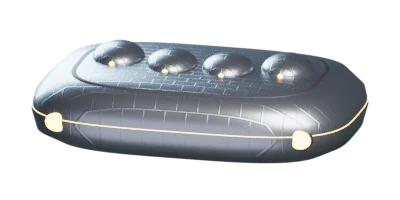
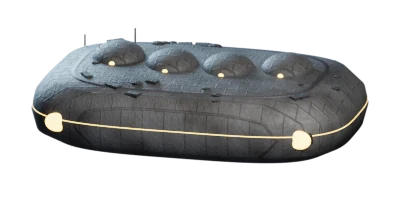
Air war: Stingray Missiles selectable; rougher, more detailed ship pictures

Changed region(s): [[0.06, 0.15, 0.93, 0.84], [0.81, 0.36, 0.84, 0.39], [0.57, 0.24, 0.6, 0.27]]

diff --git a/src/model/__tests__/airwar.spec.ts b/src/model/__tests__/airwar.spec.ts
@@ -5,6 +5,7 @@ import { parseSave } from '@/save/parse'
 import { readCampaign } from '@/save/campaign'
 import {
   AIR_FOUNDRY,
+  CRAFT_WEAPONS,
   INTERCEPTOR,
   categoryFor,
   craftStats,
@@ -17,6 +18,7 @@ import {
   sequenceOdds,
   toHitFor,
   ufoStats,
+  weaponStats,
   type AirSetting,
   type Engagement,
   type Shot,
@@ -59,6 +61,18 @@ describe('ships and weapons from the INI', () => {
       ['Stingray Missiles', 65], // Wingtip Sparrowhawks
     ])
     expect(craftStats(INTERCEPTOR, 1, set({ foundry: all })).weapons[0]!.damage).toBe(230) // Coilguns
+  })
+
+  it('offers every weapon the hangar can mount, Stingray included (item 116)', () => {
+    expect(CRAFT_WEAPONS.map((w) => weaponStats(w, set()).name)).toEqual([
+      'Phoenix Cannon',
+      'Stingray Missiles',
+      'Avalanche Missiles',
+      'Laser Cannon',
+      'Plasma Cannon',
+      'EMP Cannon',
+      'Fusion Lance',
+    ])
   })
 
   it('grows UFOs with alien research', () => {

diff --git a/scripts/ufo_art.py b/scripts/ufo_art.py
@@ -18,6 +18,7 @@ fight). Cycles on the CPU, a few seconds each.
 """
 import math
 import os
+import random
 import sys
 
 import bpy
@@ -51,12 +52,12 @@ def reset():
     sky.sky_type = 'HOSEK_WILKIE'
     sky.sun_direction = (0.4, -0.6, 0.7)
     world.node_tree.links.new(sky.outputs['Color'], nodes['Background'].inputs['Color'])
-    nodes['Background'].inputs['Strength'].default_value = 0.35
+    nodes['Background'].inputs['Strength'].default_value = 0.2
     sc.world = world
     for name, loc, energy, size, color in (
-        ('key', (3, -4, 4), 900, 4, (1.0, 0.96, 0.9)),
-        ('rim', (-4, 4, 2), 800, 4, (0.55, 0.8, 1.0)),
-        ('fill', (-1, -5, -1.5), 140, 6, (0.8, 0.85, 1.0)),
+        ('key', (3, -4, 4), 700, 3, (1.0, 0.94, 0.86)),
+        ('rim', (-4, 4, 2), 900, 3, (0.55, 0.8, 1.0)),
+        ('fill', (-1, -5, -1.5), 60, 6, (0.8, 0.85, 1.0)),
     ):
         light = bpy.data.lights.new(name, 'AREA')
         light.energy, light.size, light.color = energy, size, color
@@ -69,18 +70,19 @@ def reset():
 
 SPECS = {
     # Hulls carry a panel grid (a brick texture as bump), Enemy Unknown's look.
-    'hull': dict(color=(0.30, 0.32, 0.36), metal=0.9, rough=0.32, panels=3),
-    'hull_light': dict(color=(0.55, 0.57, 0.61), metal=0.9, rough=0.28, panels=3),
-    'hull_dark': dict(color=(0.10, 0.10, 0.13), metal=0.85, rough=0.38, panels=3),
-    'ethereal': dict(color=(0.20, 0.12, 0.30), metal=0.9, rough=0.2, panels=3),
-    'xcom': dict(color=(0.62, 0.65, 0.68), metal=0.7, rough=0.3, panels=0),
-    'xcom_dark': dict(color=(0.16, 0.18, 0.2), metal=0.6, rough=0.4, panels=0),
+    # Worn: uneven plates, grime, scuffed roughness; Enemy Unknown is not polished.
+    'hull': dict(color=(0.12, 0.125, 0.135), metal=0.6, rough=0.6, panels=3, grime=0.85),
+    'hull_light': dict(color=(0.2, 0.205, 0.21), metal=0.6, rough=0.56, panels=3, grime=0.8),
+    'hull_dark': dict(color=(0.05, 0.05, 0.055), metal=0.55, rough=0.64, panels=3, grime=0.7),
+    'ethereal': dict(color=(0.11, 0.06, 0.16), metal=0.6, rough=0.45, panels=3, grime=0.5),
+    'xcom': dict(color=(0.3, 0.31, 0.32), metal=0.45, rough=0.52, panels=9, grime=0.5),
+    'xcom_dark': dict(color=(0.08, 0.085, 0.09), metal=0.4, rough=0.6, panels=0, grime=0.4),
     'panel': dict(color=(0.04, 0.04, 0.05), metal=0.4, rough=0.6),
     'glass': dict(color=(0.03, 0.06, 0.08), metal=0.2, rough=0.03, emit=(0.25, 0.85, 1.0), strength=0.6),
-    'cyan': dict(color=(0.2, 0.8, 1.0), metal=0, rough=0.4, emit=(0.25, 0.85, 1.0), strength=9),
-    'violet': dict(color=(0.7, 0.3, 1.0), metal=0, rough=0.4, emit=(0.72, 0.35, 1.0), strength=9),
-    'amber': dict(color=(1.0, 0.6, 0.2), metal=0, rough=0.4, emit=(1.0, 0.55, 0.15), strength=9),
-    'red': dict(color=(1.0, 0.25, 0.15), metal=0, rough=0.4, emit=(1.0, 0.22, 0.1), strength=9),
+    'cyan': dict(color=(0.2, 0.8, 1.0), metal=0, rough=0.4, emit=(0.25, 0.85, 1.0), strength=6),
+    'violet': dict(color=(0.7, 0.3, 1.0), metal=0, rough=0.4, emit=(0.72, 0.35, 1.0), strength=6),
+    'amber': dict(color=(1.0, 0.6, 0.2), metal=0, rough=0.4, emit=(1.0, 0.55, 0.15), strength=6),
+    'red': dict(color=(1.0, 0.25, 0.15), metal=0, rough=0.4, emit=(1.0, 0.22, 0.1), strength=6),
     'green': dict(color=(0.4, 1.0, 0.5), metal=0, rough=0.4, emit=(0.4, 1.0, 0.5), strength=8),
 }
 MATS = {}
@@ -100,19 +102,76 @@ def mat(name):
     if 'emit' in spec:
         b.inputs['Emission Color'].default_value = (*spec['emit'], 1)
         b.inputs['Emission Strength'].default_value = spec['strength']
-    if spec.get('panels'):
-        coord = nt.nodes.new('ShaderNodeTexCoord')
-        brick = nt.nodes.new('ShaderNodeTexBrick')
-        brick.inputs['Scale'].default_value = spec['panels']
-        brick.inputs['Mortar Size'].default_value = 0.008
-        brick.inputs['Color1'].default_value = (1, 1, 1, 1)
-        brick.inputs['Color2'].default_value = (0.85, 0.85, 0.85, 1)
-        brick.inputs['Mortar'].default_value = (0, 0, 0, 1)
-        bump = nt.nodes.new('ShaderNodeBump')
-        bump.inputs['Strength'].default_value = 0.15
-        nt.links.new(coord.outputs['Object'], brick.inputs['Vector'])
-        nt.links.new(brick.outputs['Fac'], bump.inputs['Height'])
-        nt.links.new(bump.outputs['Normal'], b.inputs['Normal'])
+    if spec.get('panels') or spec.get('grime'):
+        coord = nt.nodes.new('ShaderNodeTexCoord').outputs['Object']
+        normal = None
+        if spec.get('panels'):
+            # Plates: a brick grid for seams and tone, a second, skewed one so
+            # the plating is uneven.
+            for scale, strength, skew in ((spec['panels'], 0.3, 0.0), (spec['panels'] * 2.3, 0.12, 0.6)):
+                mapping = nt.nodes.new('ShaderNodeMapping')
+                mapping.inputs['Rotation'].default_value = (skew, skew * 0.7, skew * 1.3)
+                nt.links.new(coord, mapping.inputs['Vector'])
+                brick = nt.nodes.new('ShaderNodeTexBrick')
+                brick.inputs['Scale'].default_value = scale
+                brick.inputs['Mortar Size'].default_value = 0.01
+                brick.inputs['Color1'].default_value = (1, 1, 1, 1)
+                brick.inputs['Color2'].default_value = (0.7, 0.7, 0.7, 1)
+                brick.inputs['Mortar'].default_value = (0, 0, 0, 1)
+                nt.links.new(mapping.outputs['Vector'], brick.inputs['Vector'])
+                bump = nt.nodes.new('ShaderNodeBump')
+                bump.inputs['Strength'].default_value = strength
+                nt.links.new(brick.outputs['Fac'], bump.inputs['Height'])
+                if normal:
+                    nt.links.new(normal, bump.inputs['Normal'])
+                normal = bump.outputs['Normal']
+                if strength > 0.2:
+                    tone = brick.outputs['Color']
+        # Grime: large blotches darken the base colour; fine noise scuffs
+        # the surface and its roughness.
+        dirt = nt.nodes.new('ShaderNodeTexNoise')
+        dirt.inputs['Scale'].default_value = 3.5
+        dirt.inputs['Detail'].default_value = 8
+        nt.links.new(coord, dirt.inputs['Vector'])
+        ramp = nt.nodes.new('ShaderNodeValToRGB')
+        ramp.color_ramp.elements[0].position, ramp.color_ramp.elements[1].position = 0.35, 0.7
+        nt.links.new(dirt.outputs['Fac'], ramp.inputs['Fac'])
+        base = nt.nodes.new('ShaderNodeMix')
+        base.data_type = 'RGBA'
+        base.inputs['Factor'].default_value = spec.get('grime', 0.4)
+        c = spec['color']
+        base.inputs['A'].default_value = (*c, 1)
+        base.inputs['B'].default_value = (c[0] * 0.35, c[1] * 0.33, c[2] * 0.3, 1)
+        mixf = nt.nodes.new('ShaderNodeMath')
+        mixf.operation = 'MULTIPLY'
+        mixf.inputs[1].default_value = spec.get('grime', 0.4)
+        nt.links.new(ramp.outputs['Color'], mixf.inputs[0])
+        nt.links.new(mixf.outputs['Value'], base.inputs['Factor'])
+        colour = base.outputs['Result']
+        if spec.get('panels'):
+            tint = nt.nodes.new('ShaderNodeMix')
+            tint.data_type = 'RGBA'
+            tint.blend_type = 'MULTIPLY'
+            tint.inputs['Factor'].default_value = 0.35
+            nt.links.new(colour, tint.inputs['A'])
+            nt.links.new(tone, tint.inputs['B'])
+            colour = tint.outputs['Result']
+        nt.links.new(colour, b.inputs['Base Color'])
+        scuff = nt.nodes.new('ShaderNodeTexNoise')
+        scuff.inputs['Scale'].default_value = 40
+        scuff.inputs['Detail'].default_value = 4
+        nt.links.new(coord, scuff.inputs['Vector'])
+        rough = nt.nodes.new('ShaderNodeMapRange')
+        rough.inputs['To Min'].default_value = spec['rough'] - 0.1
+        rough.inputs['To Max'].default_value = min(1.0, spec['rough'] + 0.25)
+        nt.links.new(scuff.outputs['Fac'], rough.inputs['Value'])
+        nt.links.new(rough.outputs['Result'], b.inputs['Roughness'])
+        fine = nt.nodes.new('ShaderNodeBump')
+        fine.inputs['Strength'].default_value = 0.06
+        nt.links.new(scuff.outputs['Fac'], fine.inputs['Height'])
+        if normal:
+            nt.links.new(normal, fine.inputs['Normal'])
+        nt.links.new(fine.outputs['Normal'], b.inputs['Normal'])
     MATS[name] = m
     return m
 
@@ -227,6 +286,54 @@ def carve(target, cutter):
     bpy.data.objects.remove(cutter)
 
 
+def greebles(count, seed, place, size=(0.03, 0.1), material='hull_dark'):
+    """Small plates, vents and blisters scattered by `place(rng)`, which gives
+    a point and a direction to face along: the clutter that makes a hull
+    look built rather than turned."""
+    rng = random.Random(seed)
+    for _ in range(count):
+        (x, y, z), heading = place(rng)
+        w = rng.uniform(*size)
+        kind = rng.random()
+        if kind < 0.55:
+            box((w * rng.uniform(1, 2.5), w, w * 0.35), (x, y, z), material, bevel=0.004, rot=(0, 0, heading))
+        elif kind < 0.85:
+            ball((x, y, z), w * 0.6, material, scale=(1.4, 1, 0.45), segments=12)
+        else:
+            rod((x, y, z), (x, y, z + w * 2.5), w * 0.08, material, vertices=8)
+
+
+def on_lathe(profile, sx=1.0, sy=1.0, square=2.0, lo=0.25, hi=0.9, arc=(0, 2 * math.pi)):
+    """Points on the upper surface of a revolved hull, between `lo` and `hi`
+    of its radius, for greebles()."""
+    rs = [r for r, _ in profile]
+    top = [(r, h) for r, h in profile if h >= 0]
+
+    def height(r):
+        pts = sorted(top)
+        for (r0, h0), (r1, h1) in zip(pts, pts[1:]):
+            if r0 <= r <= r1:
+                return h0 + (h1 - h0) * (r - r0) / max(1e-6, r1 - r0)
+        return pts[-1][1]
+
+    def place(rng):
+        a = rng.uniform(*arc)
+        f = rng.uniform(lo, hi) * max(rs)
+        c, d = math.cos(a), math.sin(a)
+        k = (abs(c) ** square + abs(d) ** square) ** (-1 / square)
+        return (f * c * k * sx, f * d * k * sy, height(f) + 0.005), a + math.pi / 2
+    return place
+
+
+def on_box(size, centre, lo=0.1, hi=0.9):
+    """Points on the top face of a box, for greebles()."""
+    def place(rng):
+        x = centre[0] + (rng.uniform(lo, hi) - 0.5) * size[0]
+        y = centre[1] + (rng.uniform(lo, hi) - 0.5) * size[1]
+        return (x, y, centre[2] + size[2] / 2), rng.choice((0, math.pi / 2))
+    return place
+
+
 def scoop(target, loc, size, glow):
     """Enemy Unknown's arched intake in a saucer's front: carved, lit inside."""
     cutter = ball(loc, 1.0, 'panel', scale=size)
@@ -254,6 +361,7 @@ def scout_hull(scale=1.0):
         ball((0.88 * s * scale, 0.05, 0.03), 0.2 * scale, 'hull', scale=(0.55, 1.3, 0.75))
         ball((1.0 * s * scale, -0.12 * scale, 0.03), 0.03, 'cyan')
     lights(0.99, -0.02, 7, 0.022, 'cyan', arc=(math.pi * 1.2, math.pi * 1.8), **kw)
+    greebles(26, 4, on_lathe([(r * scale, h * scale) for r, h in PILLOW], lo=0.3, hi=0.85, **kw), size=(0.025, 0.07))
 
 
 def scout():
@@ -278,6 +386,7 @@ def oval_hull(sx=1.35, sy=1.0, material='hull', glow='cyan', scale=1.0):
     scoop(hull, (0, -1.0 * sy * scale, 0.0), (0.42 * scale, 0.2 * scale, 0.11 * scale), glow)
     band(0.72, 0.13, 'panel', **kw)
     band(0.98, 0.04, glow, w=0.012, t=0.008, **kw)
+    greebles(30, 5, on_lathe([(r * scale, h * scale) for r, h in OVAL], lo=0.52, hi=0.9, **kw), size=(0.025, 0.07))
     return kw
 
 
@@ -302,6 +411,8 @@ def overseer():
     band(0.55, 0.13, 'violet', w=0.015, t=0.008, **kw)
     band(0.86, 0.075, 'violet', w=0.015, t=0.008, **kw)
     lathe([(0, 0.22), (0.25, 0.2), (0.32, 0.15), (0, 0.15)], 'ethereal', sx=1.2, sy=0.8)
+    greebles(18, 9, on_lathe([(0, 0.17), (0.5, 0.15), (0.85, 0.08), (1.0, 0.0)], lo=0.4, hi=0.8, **kw),
+             size=(0.02, 0.05), material='ethereal')
     lathe([(0, -0.12), (0.3, -0.12), (0.18, -0.2), (0, -0.2)], 'violet', sx=1.3)
 
 
@@ -313,6 +424,8 @@ def abductor(harvester=False):
     lathe([(0, 0.32), (0.6, 0.31), (0.88, 0.25), (0.98, 0.12), (1.0, 0.0), (0.97, -0.14), (0.85, -0.22), (0, -0.24)],
           hull, **kw)
     band(0.75, 0.27, 'panel', **kw)
+    greebles(30, 6, on_lathe([(0, 0.32), (0.6, 0.31), (0.88, 0.25), (0.98, 0.12), (1.0, 0.0)], lo=0.6, hi=0.9, **kw),
+             size=(0.03, 0.07))
     band(0.99, 0.02, glow, w=0.012, t=0.008, **kw)
     # Rounded humps across the top, in a shallow arc.
     for i, x in enumerate((-0.66, -0.22, 0.22, 0.66)):
@@ -347,6 +460,8 @@ def transport(terror=False):
             ring((1.26, y, z), 0.12, 0.035, glow)
             ball((1.2, y, z), 0.1, glow, scale=(0.4, 1, 1))
     box((1.6, 0.02, 0.05), (-0.2, -0.61, 0.2), glow, bevel=0)
+    greebles(22, 7, on_box((1.4, 0.9, 0.3), (-0.3, 0, 0.5)), size=(0.03, 0.08))
+    greebles(16, 8, on_box((2.0, 1.1, 0.8), (0, 0, 0), lo=0.05, hi=0.95), size=(0.03, 0.07))
     if terror:
         for x, h in ((-0.8, 0.4), (-0.3, 0.55), (0.2, 0.4)):
             cone((x, 0, 0.65 + h / 2), 0.07, h, 'hull_dark')
@@ -374,6 +489,8 @@ def battleship(carrier=False):
         rod((-1.3, 0.2 * s, 0.0), (-1.45, 0.2 * s, 0.0), 0.12, 'hull_dark')
         ball((-1.46, 0.2 * s, 0.0), 0.1, 'cyan', scale=(0.4, 1, 1))
     box((2.2, 0.02, 0.04), (0, -0.36, 0.05), trim, bevel=0)
+    greebles(26, 10, on_box((1.8, 0.4, 0.26), (-0.2, 0, 0.32)), size=(0.025, 0.06))
+    greebles(20, 11, on_box((2.5, 0.7, 0.42), (0, 0, 0), lo=0.05, hi=0.95), size=(0.025, 0.06))
     if carrier:
         # A long flight deck and an open hangar bay under the prow.
         box((1.9, 0.6, 0.04), (-0.1, 0, 0.47), 'hull_light', bevel=0.02)

diff --git a/scripts/upk_airwar.py b/scripts/upk_airwar.py
@@ -253,6 +253,18 @@ def main():
     def ship_name(t):
         return ship_names.get(ship_enum[t]) or ship_names.get(str(t)) or ship_enum[t]
 
+    equipment, pending = [], []
+    for _, st in statements(pk, 'XGFacility_Hangar.ItemTypeToShipWeapon'):
+        if m := re.fullmatch(r'case b?(\d+):', st):
+            pending.append(int(m.group(1)))
+        elif (m := re.fullmatch(r'return b?(\d+)', st)) and pending:
+            for item in pending:
+                key = item_enum[item]
+                equipment.append({'item': item, 'name': item_names.get(key) or item_names.get(str(item), key),
+                                  'weapon': int(m.group(1))})
+            pending = []
+    equipment.sort(key=lambda e: e['weapon'])
+
     consumables = {n: item_enum.index(n) for n in
                    ('eItem_IntConsumable_Hit', 'eItem_IntConsumable_Dodge', 'eItem_IntConsumable_Boost')}
     out = {
@@ -268,11 +280,9 @@ def main():
         'always_crash': sorted(set(always_crash)),
         'consumables': {k.removeprefix('eItem_IntConsumable_').lower(): {'item': v, 'name': item_names.get(k, k)}
                         for k, v in consumables.items()},
-        # Interceptor weapons as items in stores, and the ship weapon each one is.
-        'equipment': [{'item': item_enum.index(f'eItem_IntWeap_{r}'), 'name': item_names.get(f'eItem_IntWeap_{r}'),
-                       'weapon': next(t for t, n in enumerate(weapon_enum, 1)
-                                      if weapon_names[n] == item_names.get(f'eItem_IntWeap_{r}'))}
-                      for r in ('I', 'II', 'III', 'IV', 'V', 'VI')],
+        # Interceptor weapons as items, and the ship weapon each one is
+        # (XGFacility_Hangar.ItemTypeToShipWeapon; Long War's Stingray is item 116).
+        'equipment': equipment,
     }
     json.dump(out, sys.stdout, indent=1)
     print()

diff --git a/features/air-war.md b/features/air-war.md
@@ -187,3 +187,13 @@ and landed-UFO missions only (XGStrategy.PostCombat); it now reads
   canards, the Firestorm a crescent with forward-curving wings and a
   glowing engine ring. They fly in the fight instead of the triangle and
   sit on each jet's card. All pictures are now `public/ships/<EShipType>.webp`.
+
+## Report (2026-10-18, round 6)
+
+- Stingray Missiles can be picked: Long War keeps them in item 116 (the
+  enum's BEGIN_SHIP_WEAPONS marker), so the equipment list is now read from
+  the game's own XGFacility_Hangar.ItemTypeToShipWeapon instead of the
+  IntWeap item names.
+- The pictures are rougher: dark, matte, worn gunmetal with uneven plating
+  (two skewed panel grids), grime and scuffed roughness, dimmer glows, and
+  seeded clutter on the hulls (plates, vents, blisters, antennae).
